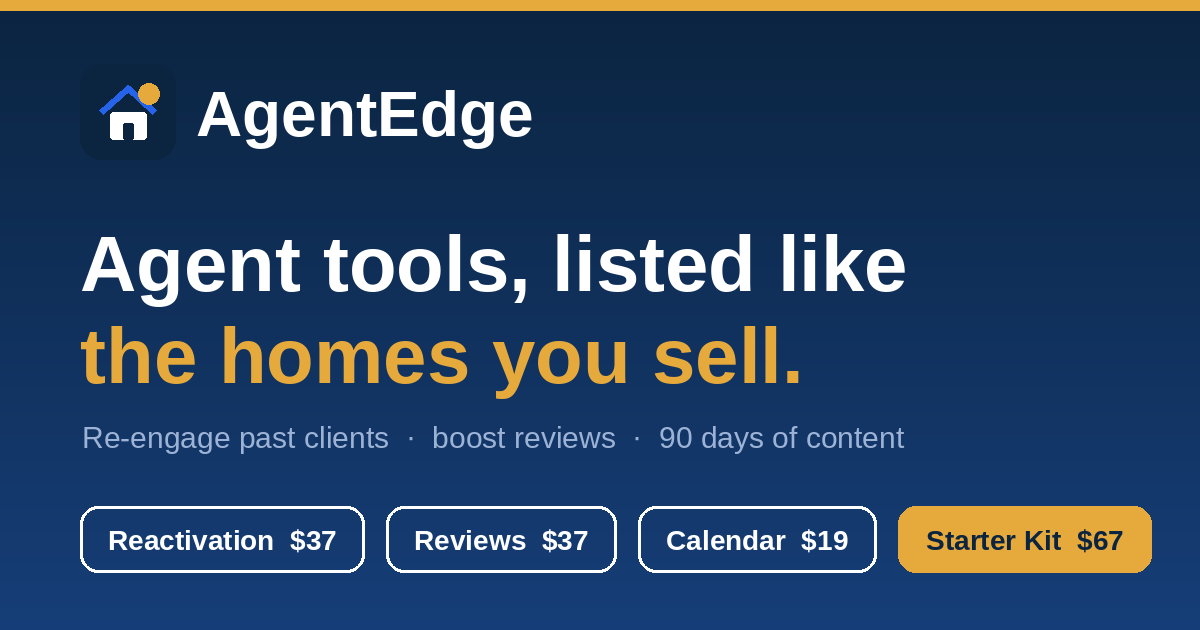
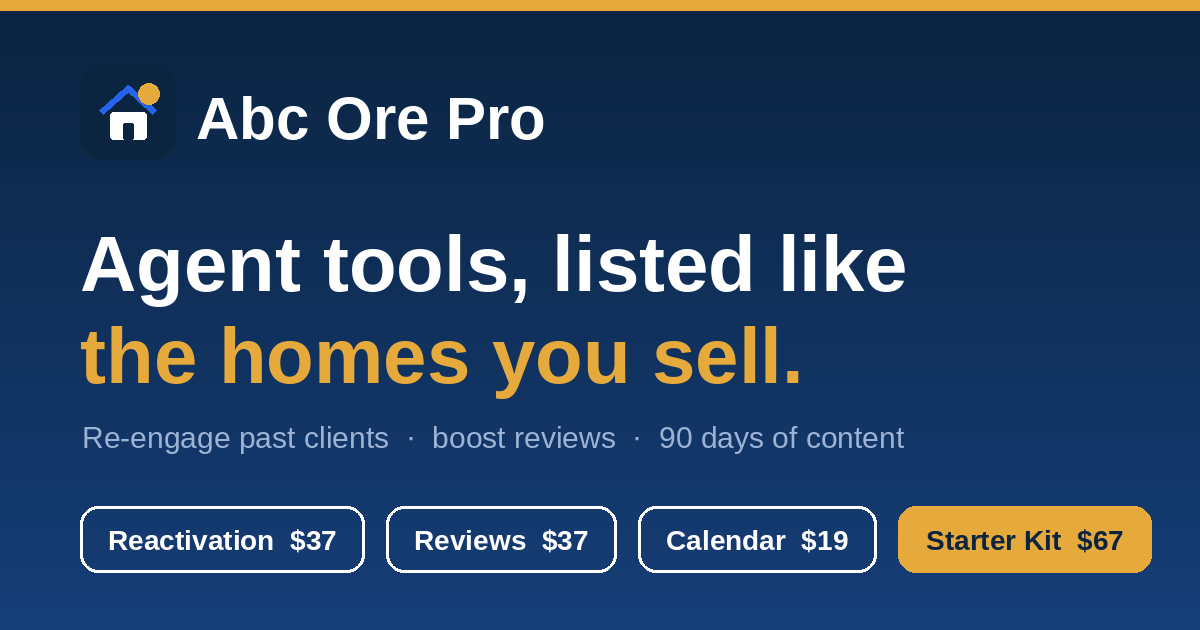
Rebrand to Abc Ore Pro and wire custom domain abcorepro.com
- Brand swapped from AgentEdge placeholder to "Abc Ore Pro" sitewide
  (header, footer, title, OG/Twitter, favicon label, OG image wordmark)
- Canonical + OG/Twitter URLs point to https://abcorepro.com/
- Add CNAME (abcorepro.com); README deploy section + DNS records updated

Changed region(s): [[0.1542, 0.1206, 0.4625, 0.2413]]

diff --git a/index.html b/index.html
@@ -3,26 +3,26 @@
 <head>
   <meta charset="utf-8">
   <meta name="viewport" content="width=device-width, initial-scale=1">
-  <title>AgentEdge — Done-for-you marketing kits for real estate agents</title>
+  <title>Abc Ore Pro — Done-for-you marketing kits for real estate agents</title>
   <meta name="description" content="Ready-to-use marketing kits for real estate agents: re-engage past clients, earn more Google reviews, and post for 90 days straight. One-time purchase, instant download.">
   <meta name="theme-color" content="#0b2440">
-  <link rel="canonical" href="https://600589mbm-beep.github.io/realtor-storefront/">
+  <link rel="canonical" href="https://abcorepro.com/">
 
   <!-- Open Graph -->
   <meta property="og:type" content="website">
-  <meta property="og:site_name" content="AgentEdge">
-  <meta property="og:title" content="AgentEdge — marketing kits for real estate agents">
+  <meta property="og:site_name" content="Abc Ore Pro">
+  <meta property="og:title" content="Abc Ore Pro — marketing kits for real estate agents">
   <meta property="og:description" content="Re-engage past clients, earn more Google reviews, and post for 90 days straight. One-time purchase, instant download.">
-  <meta property="og:url" content="https://600589mbm-beep.github.io/realtor-storefront/">
-  <meta property="og:image" content="https://600589mbm-beep.github.io/realtor-storefront/assets/img/og-image.png">
+  <meta property="og:url" content="https://abcorepro.com/">
+  <meta property="og:image" content="https://abcorepro.com/assets/img/og-image.png">
   <meta property="og:image:width" content="1200">
   <meta property="og:image:height" content="630">
-  <meta property="og:image:alt" content="AgentEdge — agent tools, listed like the homes you sell">
+  <meta property="og:image:alt" content="Abc Ore Pro — agent tools, listed like the homes you sell">
   <!-- Twitter -->
   <meta name="twitter:card" content="summary_large_image">
-  <meta name="twitter:title" content="AgentEdge — marketing kits for real estate agents">
+  <meta name="twitter:title" content="Abc Ore Pro — marketing kits for real estate agents">
   <meta name="twitter:description" content="Re-engage past clients, earn more Google reviews, and post for 90 days straight.">
-  <meta name="twitter:image" content="https://600589mbm-beep.github.io/realtor-storefront/assets/img/og-image.png">
+  <meta name="twitter:image" content="https://abcorepro.com/assets/img/og-image.png">
 
   <!-- Favicons -->
   <link rel="icon" href="favicon.ico" sizes="any">
@@ -44,9 +44,9 @@
   <header class="site-header" id="top">
     <div class="container">
       <nav class="nav" aria-label="Primary">
-        <a class="brand" href="#top" aria-label="AgentEdge home">
+        <a class="brand" href="#top" aria-label="Abc Ore Pro home">
           <img src="favicon.svg" alt="" width="34" height="34">
-          <span>AgentEdge</span>
+          <span>Abc Ore Pro</span>
         </a>
         <ul class="nav-links" id="nav-links">
           <li><a href="#tools">The kits</a></li>
@@ -277,9 +277,9 @@
     <div class="container">
       <div class="footer-grid">
         <div>
-          <a class="brand" href="#top" aria-label="AgentEdge home">
+          <a class="brand" href="#top" aria-label="Abc Ore Pro home">
             <img src="favicon.svg" alt="" width="34" height="34">
-            <span>AgentEdge</span>
+            <span>Abc Ore Pro</span>
           </a>
           <p class="footer-blurb">Done-for-you marketing kits for real estate agents — re-engage, get reviewed, and stay visible.</p>
         </div>
@@ -303,7 +303,7 @@
         </div>
       </div>
       <div class="footer-bottom">
-        <span>&copy; <span id="year">2026</span> AgentEdge. All rights reserved.</span>
+        <span>&copy; <span id="year">2026</span> Abc Ore Pro. All rights reserved.</span>
         <span class="footer-legal">Independent product. Not affiliated with, endorsed by, or sponsored by Google. Results vary by market and effort — no specific outcome is guaranteed.</span>
       </div>
     </div>

diff --git a/assets/js/main.js b/assets/js/main.js
@@ -1,4 +1,4 @@
-/* AgentEdge — minimal progressive enhancement. No storage, no dependencies. */
+/* Abc Ore Pro — minimal progressive enhancement. No storage, no dependencies. */
 (function () {
   "use strict";
 

diff --git a/tools/gen_meta_images.py b/tools/gen_meta_images.py
@@ -72,7 +72,7 @@ d.rectangle([0, 0, W, 10], fill=GOLD)
 # brand row
 mark = house_mark(96)
 og.paste(mark, (80, 64), mark)
-d.text((196, 78), "AgentEdge", font=font(FB, 64), fill=WHITE)
+d.text((196, 84), "Abc Ore Pro", font=font(FB, 60), fill=WHITE)
 
 # headline
 d.text((80, 220), "Agent tools, listed like", font=font(FB, 78), fill=WHITE)

diff --git a/README.md b/README.md
@@ -1,4 +1,4 @@
-# AgentEdge — realtor marketing-kit storefront
+# Abc Ore Pro — realtor marketing-kit storefront
 
 A fast, static, single-page storefront that sells three low-ticket digital products to
 real estate agents, presented as **property-style "listings"** plus a discounted bundle.
@@ -67,9 +67,7 @@ python3 -m http.server 8099   # then open http://localhost:8099/
 
 ## Open TODOs before/at launch
 
-1. **Brand name** — displayed as the placeholder **`AgentEdge`**. The brief answer "abc ore
-   pro" read like voice-garble, so it was not used. To change: find/replace `AgentEdge` in
-   `index.html` (header, footer, `<title>`, OG/Twitter tags) and re-run `tools/gen_meta_images.py`.
+1. **Brand name** — set to **Abc Ore Pro** (from the domain abcorepro.com). ✓ Resolved.
 2. **`TODO_CHECKOUT_LINK` ×4** (one per HTML comment, by product). When a real deliverable
    exists for a product, swap its disabled button for a live link:
    ```html
@@ -82,6 +80,12 @@ python3 -m http.server 8099   # then open http://localhost:8099/
 
 ## Deploy (GitHub Pages)
 
-This repo deploys to **https://600589mbm-beep.github.io/realtor-storefront/** from the
-`main` branch root. See the deploy section of the launch summary for the exact commands.
-No custom domain (so no `CNAME` file).
+Deploys from the `main` branch root to the custom domain **https://abcorepro.com/**
+(the `CNAME` file holds `abcorepro.com`). DNS records to set at the registrar:
+
+- Apex `A` records → `185.199.108.153`, `185.199.109.153`, `185.199.110.153`, `185.199.111.153`
+- Apex `AAAA` (optional, IPv6) → `2606:50c0:8000::153`, `2606:50c0:8001::153`, `2606:50c0:8002::153`, `2606:50c0:8003::153`
+- `www` `CNAME` → `600589mbm-beep.github.io`
+
+Until DNS propagates, the site also serves at `https://600589mbm-beep.github.io/realtor-storefront/`.
+After the domain verifies, enable **Enforce HTTPS** in repo Settings → Pages.